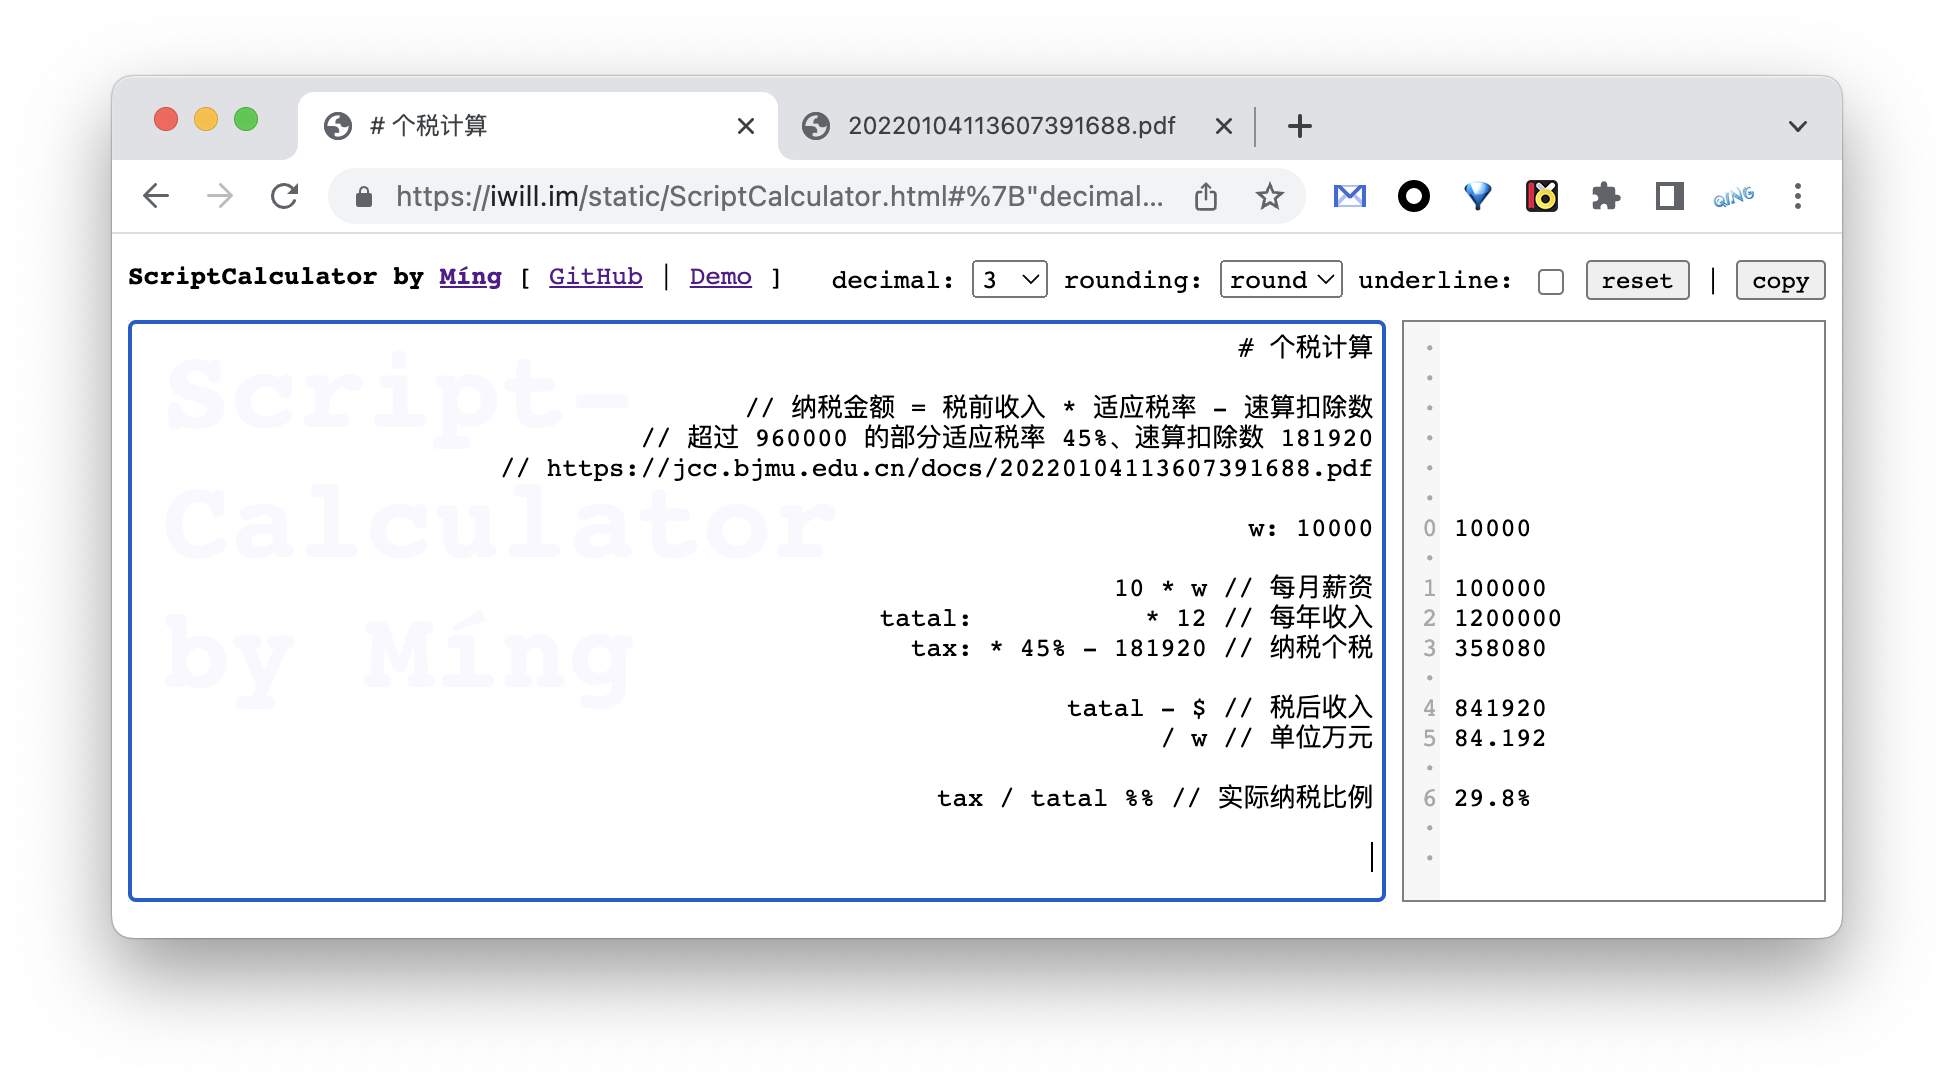
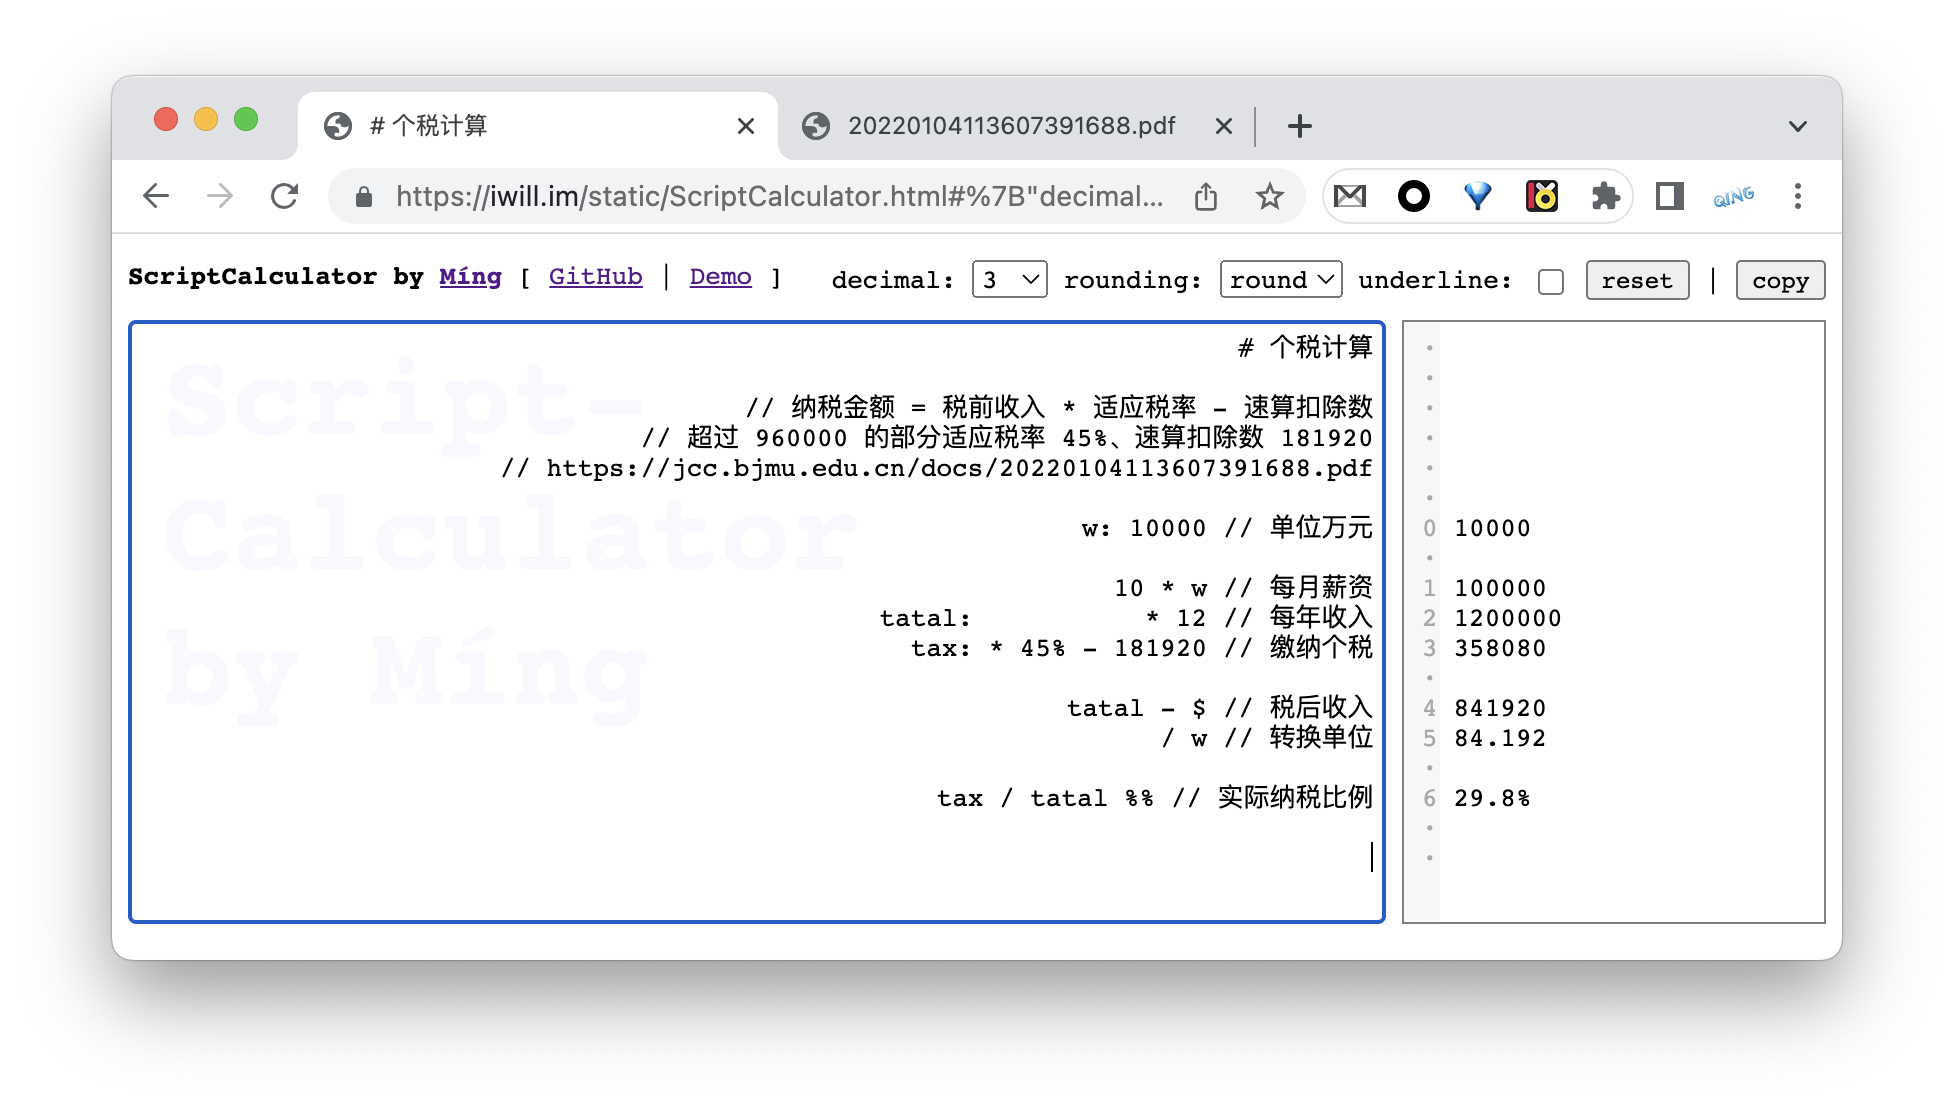
Site updated: 2022-07-12 15:59:13

diff --git a/2022/07/08/script-calculator/index.html b/2022/07/08/script-calculator/index.html
@@ -9,7 +9,7 @@
   <meta name="description" content="ScriptCalculator: https://iwill.im/static/ScriptCalculator.htmlGitHub Repo: https://github.com/iwill/ScriptCalculator
 
 ScriptCalculator 是我为了满足个人需求开发的一款计算器。
-先看效果，假设某同学月薪 10w，用 ScriptCalculator 计算一下他的税后收入：
+先看效果，假设某同学月薪 10w，用 ScriptCalculator 计算一下他的税后收入（为了便于演示，这里不考虑五险一金、绩效、ESPP、加班费、餐补等）：
 
 查看计算脚本 or 算算我的 👀">
   
@@ -73,9 +73,9 @@ ScriptCalculator 是我为了满足个人需求开发的一款计算器。
 <p>ScriptCalculator: <a href="https://iwill.im/static/ScriptCalculator.html">https://iwill.im/static/ScriptCalculator.html</a><br /><br>GitHub Repo: <a target="_blank" rel="noopener" href="https://github.com/iwill/ScriptCalculator">https://github.com/iwill/ScriptCalculator</a></p>
 </blockquote>
 <p><a href="https://iwill.im/static/ScriptCalculator.html">ScriptCalculator</a> 是我为了满足个人需求开发的一款计算器。</p>
-<p>先看效果，假设某同学月薪 10w，用 ScriptCalculator 计算一下他的税后收入：</p>
+<p>先看效果，假设某同学月薪 10w，用 ScriptCalculator 计算一下他的税后收入（为了便于演示，这里不考虑五险一金、绩效、ESPP、加班费、餐补等）：</p>
 <blockquote>
-<p><a href="https://iwill.im/static/ScriptCalculator.html#%7B%22decimalPlaces%22%3A4%2C%22script%22%3A%22%23%20%E4%B8%AA%E7%A8%8E%E8%AE%A1%E7%AE%97%5Cn%5Cn%2F%2F%20%E7%BA%B3%E7%A8%8E%E9%87%91%E9%A2%9D%20%3D%20%E7%A8%8E%E5%89%8D%E6%94%B6%E5%85%A5%20*%20%E9%80%82%E5%BA%94%E7%A8%8E%E7%8E%87%20-%20%E9%80%9F%E7%AE%97%E6%89%A3%E9%99%A4%E6%95%B0%5Cn%2F%2F%20%E8%B6%85%E8%BF%87%20960000%20%E7%9A%84%E9%83%A8%E5%88%86%E9%80%82%E5%BA%94%E7%A8%8E%E7%8E%87%2045%25%E3%80%81%E9%80%9F%E7%AE%97%E6%89%A3%E9%99%A4%E6%95%B0%20181920%5Cn%2F%2F%20https%3A%2F%2Fjcc.bjmu.edu.cn%2Fdocs%2F20220104113607391688.pdf%5Cn%5Cnw%3A%2010000%5Cn%5Cn10%20*%20w%20%2F%2F%20%E6%AF%8F%E6%9C%88%E8%96%AA%E8%B5%84%5Cntatal%3A%20%20%20%20%20%20%20%20%20%20%20*%2012%20%2F%2F%20%E6%AF%8F%E5%B9%B4%E6%94%B6%E5%85%A5%5Cntax%3A%20*%2045%25%20-%20181920%20%2F%2F%20%E7%BA%B3%E7%A8%8E%E4%B8%AA%E7%A8%8E%5Cn%5Cntatal%20-%20%24%20%2F%2F%20%E7%A8%8E%E5%90%8E%E6%94%B6%E5%85%A5%5Cn%2F%20w%20%2F%2F%20%E5%8D%95%E4%BD%8D%E4%B8%87%E5%85%83%5Cn%5Cntax%20%2F%20tatal%20%25%25%20%2F%2F%20%E5%AE%9E%E9%99%85%E7%BA%B3%E7%A8%8E%E6%AF%94%E4%BE%8B%5Cn%5Cn%22%7D">查看计算脚本 or 算算我的 👀</a></p>
+<p><a href="https://iwill.im/static/ScriptCalculator.html#%7B%22decimalPlaces%22%3A4%2C%22script%22%3A%22%23%20%E4%B8%AA%E7%A8%8E%E8%AE%A1%E7%AE%97%5Cn%5Cn%2F%2F%20%E7%BA%B3%E7%A8%8E%E9%87%91%E9%A2%9D%20%3D%20%E7%A8%8E%E5%89%8D%E6%94%B6%E5%85%A5%20*%20%E9%80%82%E5%BA%94%E7%A8%8E%E7%8E%87%20-%20%E9%80%9F%E7%AE%97%E6%89%A3%E9%99%A4%E6%95%B0%5Cn%2F%2F%20%E8%B6%85%E8%BF%87%20960000%20%E7%9A%84%E9%83%A8%E5%88%86%E9%80%82%E5%BA%94%E7%A8%8E%E7%8E%87%2045%25%E3%80%81%E9%80%9F%E7%AE%97%E6%89%A3%E9%99%A4%E6%95%B0%20181920%5Cn%2F%2F%20https%3A%2F%2Fjcc.bjmu.edu.cn%2Fdocs%2F20220104113607391688.pdf%5Cn%5Cnw%3A%2010000%20%2F%2F%20%E5%8D%95%E4%BD%8D%E4%B8%87%E5%85%83%5Cn%5Cn10%20*%20w%20%2F%2F%20%E6%AF%8F%E6%9C%88%E8%96%AA%E8%B5%84%5Cntatal%3A%20%20%20%20%20%20%20%20%20%20%20*%2012%20%2F%2F%20%E6%AF%8F%E5%B9%B4%E6%94%B6%E5%85%A5%5Cntax%3A%20*%2045%25%20-%20181920%20%2F%2F%20%E7%BC%B4%E7%BA%B3%E4%B8%AA%E7%A8%8E%5Cn%5Cntatal%20-%20%24%20%2F%2F%20%E7%A8%8E%E5%90%8E%E6%94%B6%E5%85%A5%5Cn%2F%20w%20%2F%2F%20%E8%BD%AC%E6%8D%A2%E5%8D%95%E4%BD%8D%5Cn%5Cntax%20%2F%20tatal%20%25%25%20%2F%2F%20%E5%AE%9E%E9%99%85%E7%BA%B3%E7%A8%8E%E6%AF%94%E4%BE%8B%5Cn%5Cn%22%7D">查看计算脚本 or 算算我的 👀</a></p>
 </blockquote>
 <p><img src="/images/script-calculator.png" alt="script-calculator.png"></p>
 <span id="more"></span>

diff --git a/index.html b/index.html
@@ -67,9 +67,9 @@
 <p>ScriptCalculator: <a href="https://iwill.im/static/ScriptCalculator.html">https://iwill.im/static/ScriptCalculator.html</a><br /><br>GitHub Repo: <a target="_blank" rel="noopener" href="https://github.com/iwill/ScriptCalculator">https://github.com/iwill/ScriptCalculator</a></p>
 </blockquote>
 <p><a href="https://iwill.im/static/ScriptCalculator.html">ScriptCalculator</a> 是我为了满足个人需求开发的一款计算器。</p>
-<p>先看效果，假设某同学月薪 10w，用 ScriptCalculator 计算一下他的税后收入：</p>
+<p>先看效果，假设某同学月薪 10w，用 ScriptCalculator 计算一下他的税后收入（为了便于演示，这里不考虑五险一金、绩效、ESPP、加班费、餐补等）：</p>
 <blockquote>
-<p><a href="https://iwill.im/static/ScriptCalculator.html#%7B%22decimalPlaces%22%3A4%2C%22script%22%3A%22%23%20%E4%B8%AA%E7%A8%8E%E8%AE%A1%E7%AE%97%5Cn%5Cn%2F%2F%20%E7%BA%B3%E7%A8%8E%E9%87%91%E9%A2%9D%20%3D%20%E7%A8%8E%E5%89%8D%E6%94%B6%E5%85%A5%20*%20%E9%80%82%E5%BA%94%E7%A8%8E%E7%8E%87%20-%20%E9%80%9F%E7%AE%97%E6%89%A3%E9%99%A4%E6%95%B0%5Cn%2F%2F%20%E8%B6%85%E8%BF%87%20960000%20%E7%9A%84%E9%83%A8%E5%88%86%E9%80%82%E5%BA%94%E7%A8%8E%E7%8E%87%2045%25%E3%80%81%E9%80%9F%E7%AE%97%E6%89%A3%E9%99%A4%E6%95%B0%20181920%5Cn%2F%2F%20https%3A%2F%2Fjcc.bjmu.edu.cn%2Fdocs%2F20220104113607391688.pdf%5Cn%5Cnw%3A%2010000%5Cn%5Cn10%20*%20w%20%2F%2F%20%E6%AF%8F%E6%9C%88%E8%96%AA%E8%B5%84%5Cntatal%3A%20%20%20%20%20%20%20%20%20%20%20*%2012%20%2F%2F%20%E6%AF%8F%E5%B9%B4%E6%94%B6%E5%85%A5%5Cntax%3A%20*%2045%25%20-%20181920%20%2F%2F%20%E7%BA%B3%E7%A8%8E%E4%B8%AA%E7%A8%8E%5Cn%5Cntatal%20-%20%24%20%2F%2F%20%E7%A8%8E%E5%90%8E%E6%94%B6%E5%85%A5%5Cn%2F%20w%20%2F%2F%20%E5%8D%95%E4%BD%8D%E4%B8%87%E5%85%83%5Cn%5Cntax%20%2F%20tatal%20%25%25%20%2F%2F%20%E5%AE%9E%E9%99%85%E7%BA%B3%E7%A8%8E%E6%AF%94%E4%BE%8B%5Cn%5Cn%22%7D">查看计算脚本 or 算算我的 👀</a></p>
+<p><a href="https://iwill.im/static/ScriptCalculator.html#%7B%22decimalPlaces%22%3A4%2C%22script%22%3A%22%23%20%E4%B8%AA%E7%A8%8E%E8%AE%A1%E7%AE%97%5Cn%5Cn%2F%2F%20%E7%BA%B3%E7%A8%8E%E9%87%91%E9%A2%9D%20%3D%20%E7%A8%8E%E5%89%8D%E6%94%B6%E5%85%A5%20*%20%E9%80%82%E5%BA%94%E7%A8%8E%E7%8E%87%20-%20%E9%80%9F%E7%AE%97%E6%89%A3%E9%99%A4%E6%95%B0%5Cn%2F%2F%20%E8%B6%85%E8%BF%87%20960000%20%E7%9A%84%E9%83%A8%E5%88%86%E9%80%82%E5%BA%94%E7%A8%8E%E7%8E%87%2045%25%E3%80%81%E9%80%9F%E7%AE%97%E6%89%A3%E9%99%A4%E6%95%B0%20181920%5Cn%2F%2F%20https%3A%2F%2Fjcc.bjmu.edu.cn%2Fdocs%2F20220104113607391688.pdf%5Cn%5Cnw%3A%2010000%20%2F%2F%20%E5%8D%95%E4%BD%8D%E4%B8%87%E5%85%83%5Cn%5Cn10%20*%20w%20%2F%2F%20%E6%AF%8F%E6%9C%88%E8%96%AA%E8%B5%84%5Cntatal%3A%20%20%20%20%20%20%20%20%20%20%20*%2012%20%2F%2F%20%E6%AF%8F%E5%B9%B4%E6%94%B6%E5%85%A5%5Cntax%3A%20*%2045%25%20-%20181920%20%2F%2F%20%E7%BC%B4%E7%BA%B3%E4%B8%AA%E7%A8%8E%5Cn%5Cntatal%20-%20%24%20%2F%2F%20%E7%A8%8E%E5%90%8E%E6%94%B6%E5%85%A5%5Cn%2F%20w%20%2F%2F%20%E8%BD%AC%E6%8D%A2%E5%8D%95%E4%BD%8D%5Cn%5Cntax%20%2F%20tatal%20%25%25%20%2F%2F%20%E5%AE%9E%E9%99%85%E7%BA%B3%E7%A8%8E%E6%AF%94%E4%BE%8B%5Cn%5Cn%22%7D">查看计算脚本 or 算算我的 👀</a></p>
 </blockquote>
 <p><img src="/images/script-calculator.png" alt="script-calculator.png"></p>
       
